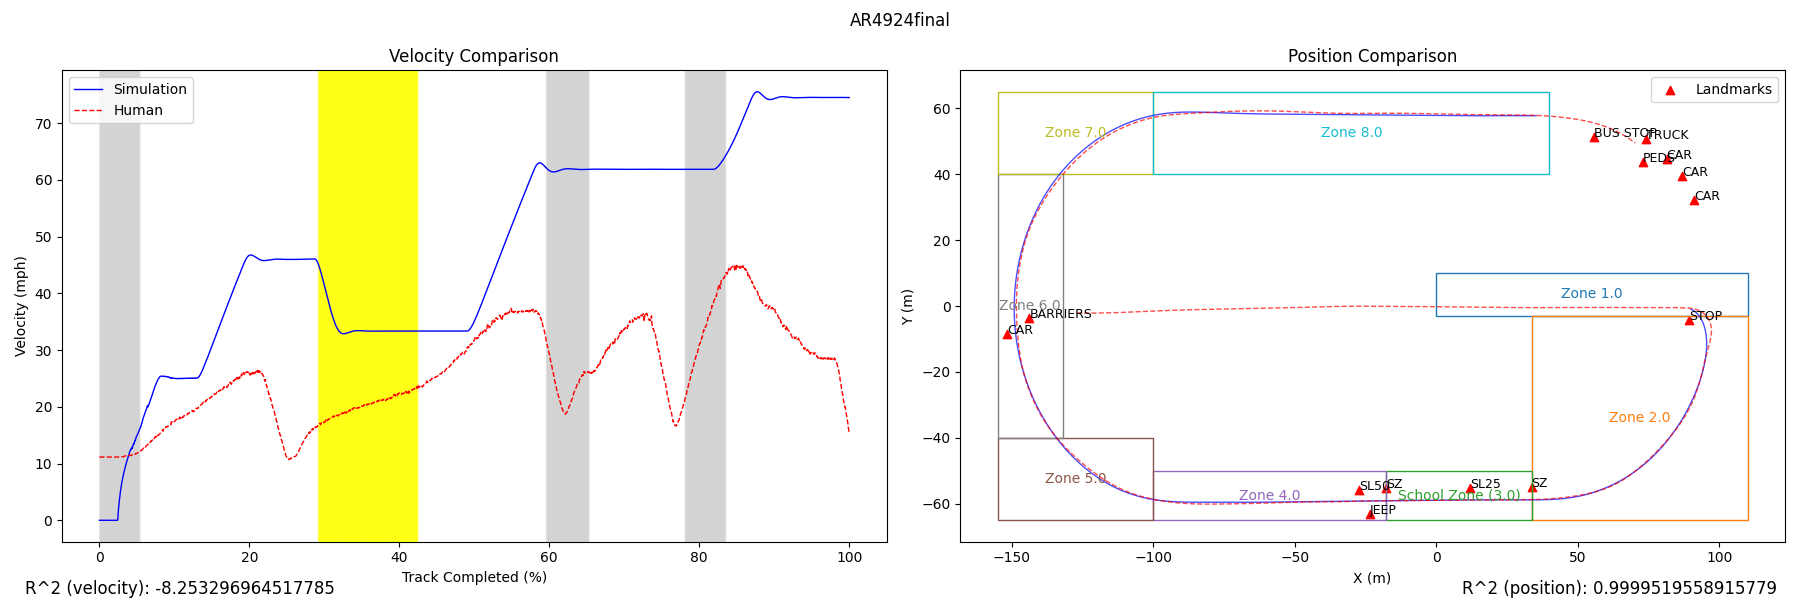
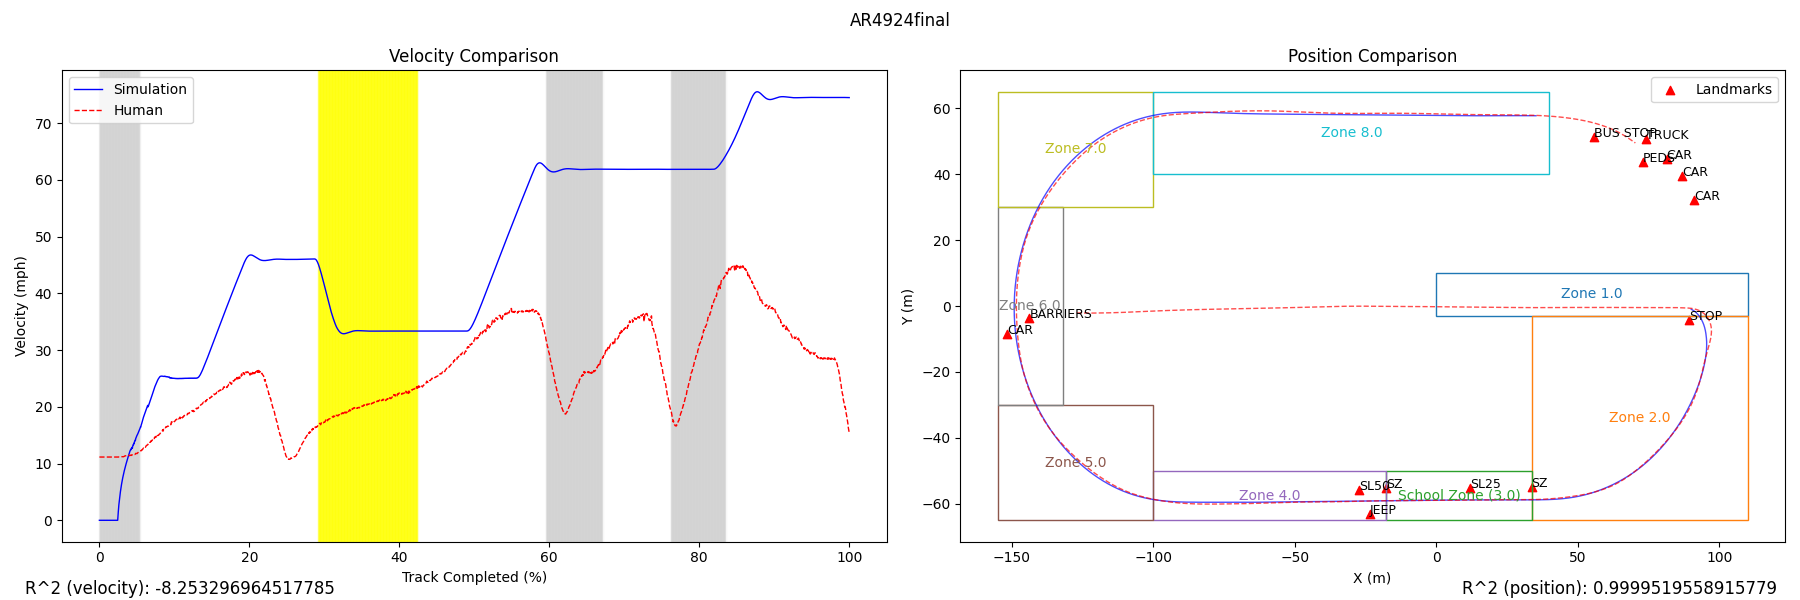
updated zone 5

diff --git a/viz_r_sq.py b/viz_r_sq.py
@@ -8,8 +8,8 @@ import matplotlib.patches as patches
 import matplotlib.cm as cm
 
 ## SET YOUR PARTICIPANT ID HERE
-participant_num = 'BJ7377'
-# participant_num = 'AR4924'
+# participant_num = 'BJ7377'
+participant_num = 'AR4924'
 # participant_num = 'AM5287'
 
 def calculate_velocity(df):
